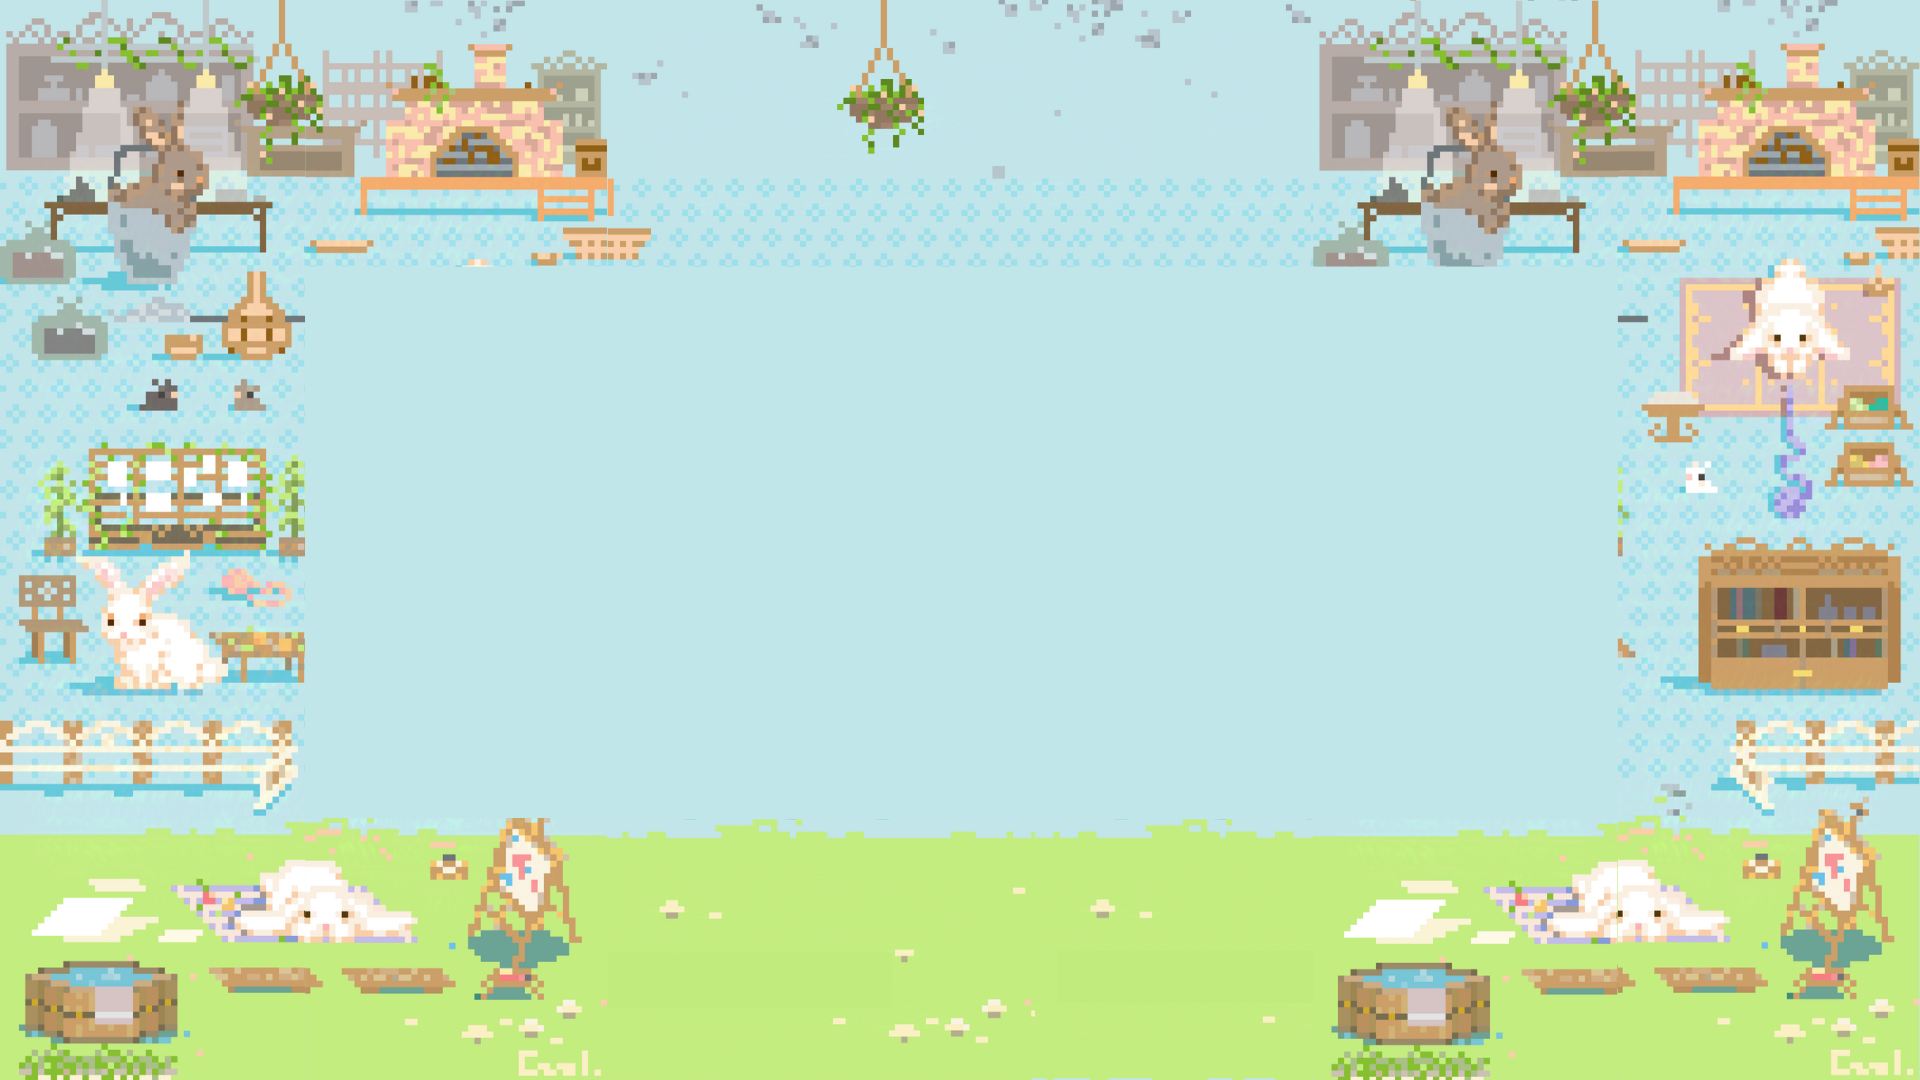
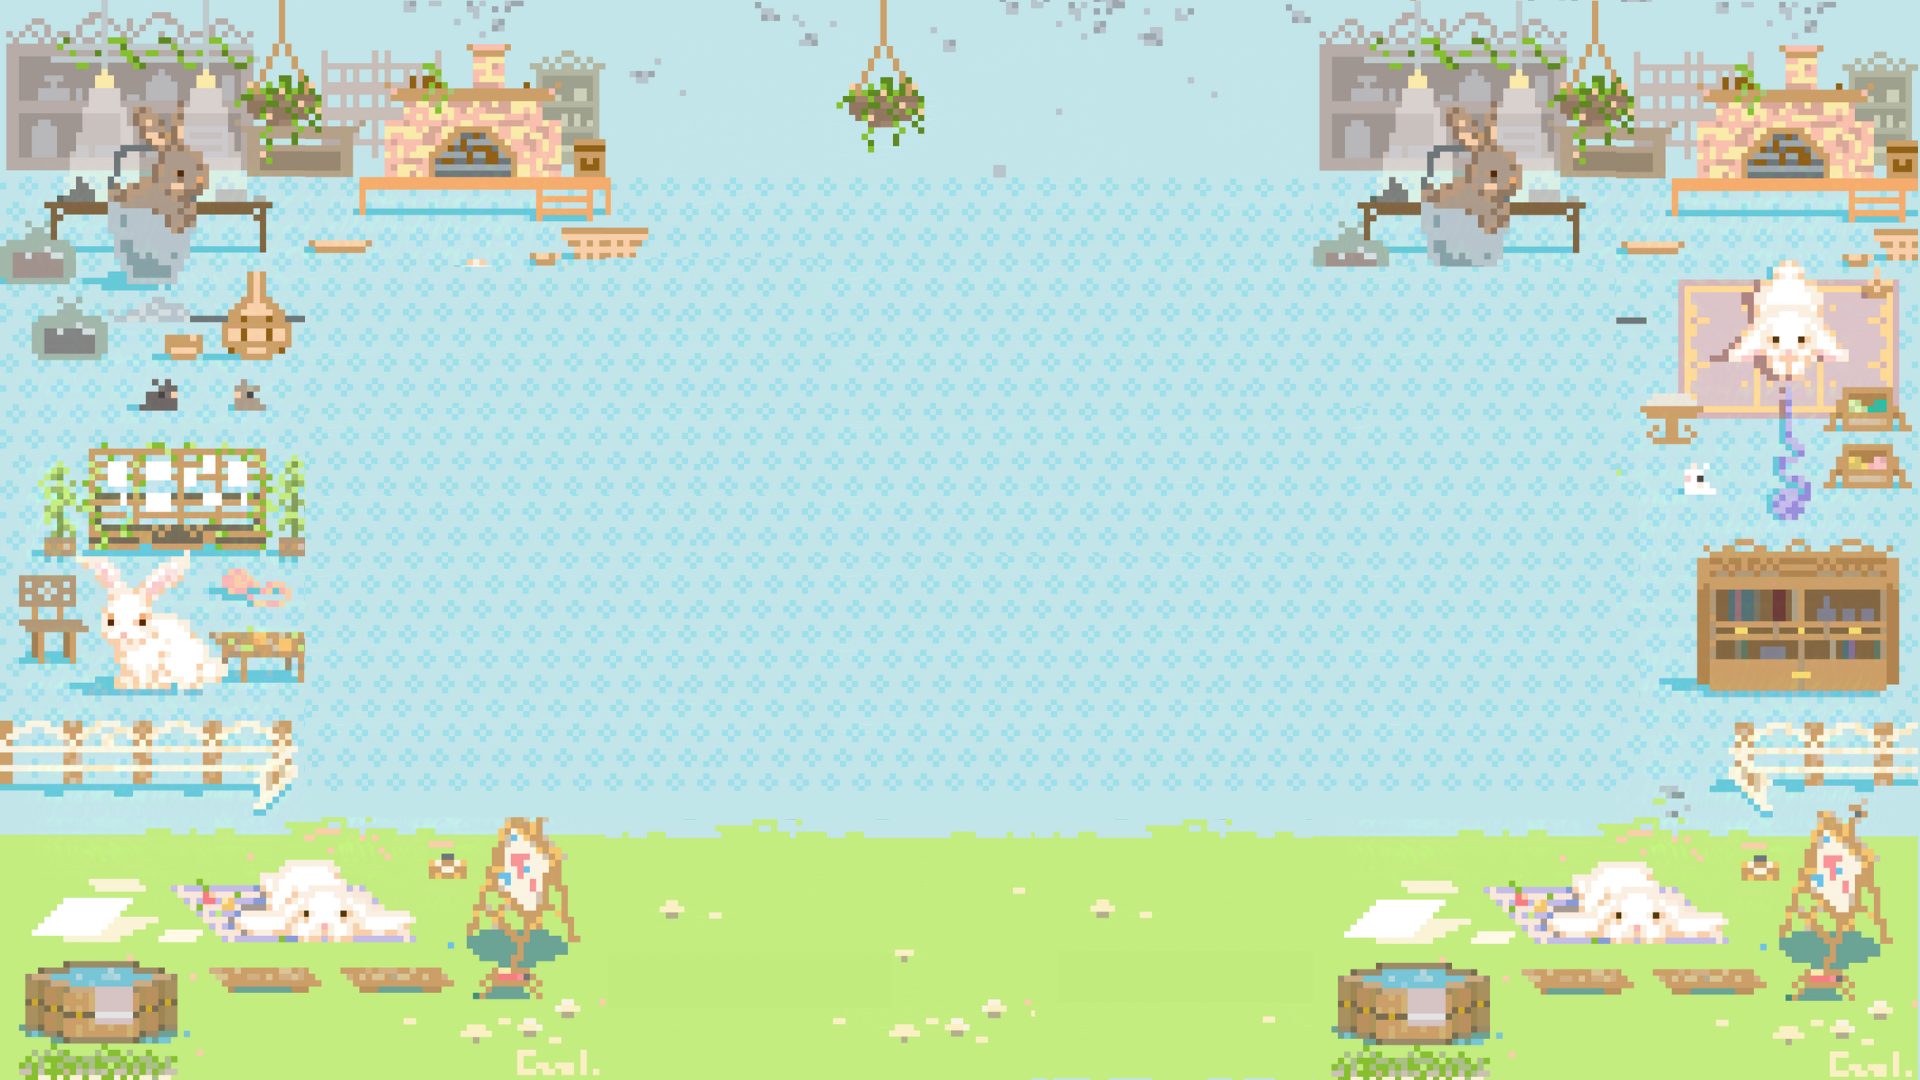
ajustes visuais

diff --git a/services/receitasData.js b/services/receitasData.js
@@ -1,0 +1,74 @@
+const mockDataReceitas = [
+  {
+    idReceita: 1,
+    nomeReceita: 'Produto 1',
+    descricaoReceita: 'Descrição do Produto 1',
+    precoReceita: '100,00',
+    arrayImagens: ['/icons/iconMirumuh_topRosa_marrom.png'],
+  },
+  {
+    idReceita: 2,
+    nomeReceita: 'Produto 2',
+    descricaoReceita: 'Descrição do Produto 2',
+    precoReceita: '150,00',
+    arrayImagens: ['/icons/iconMirumuh_topRosa_marrom.png'],
+  },
+  {
+    idReceita: 3,
+    nomeReceita: 'Produto 3',
+    descricaoReceita: 'Descrição do Produto 3',
+    precoReceita: '200,00',
+    arrayImagens: ['/icons/iconMirumuh_topRosa_marrom.png'],
+  },
+  {
+    idReceita: 4,
+    nomeReceita: 'Produto 4',
+    descricaoReceita: 'Descrição do Produto 4',
+    precoReceita: '250,00',
+    arrayImagens: ['/icons/iconMirumuh_topRosa_marrom.png'],
+  },
+  {
+    idReceita: 5,
+    nomeReceita: 'Produto 5',
+    descricaoReceita: 'Descrição do Produto 5',
+    precoReceita: '300,00',
+    arrayImagens: ['/icons/iconMirumuh_topRosa_marrom.png'],
+  },
+  {
+    idReceita: 6,
+    nomeReceita: 'Produto 6',
+    descricaoReceita: 'Descrição do Produto 6',
+    precoReceita: '350,00',
+    arrayImagens: ['/icons/iconMirumuh_topRosa_marrom.png'],
+  },
+  {
+    idReceita: 7,
+    nomeReceita: 'Produto 7',
+    descricaoReceita: 'Descrição do Produto 7',
+    precoReceita: '400,00',
+    arrayImagens: ['/icons/iconMirumuh_topRosa_marrom.png'],
+  },
+  {
+    idReceita: 8,
+    nomeReceita: 'Produto 8',
+    descricaoReceita: 'Descrição do Produto 8',
+    precoReceita: '450,00',
+    arrayImagens: ['/icons/iconMirumuh_topRosa_marrom.png'],
+  },
+  {
+    idReceita: 9,
+    nomeReceita: 'Produto 9',
+    descricaoReceita: 'Descrição do Produto 9',
+    precoReceita: '500,00',
+    arrayImagens: ['/icons/iconMirumuh_topRosa_marrom.png'],
+  },
+  {
+    idReceita: 10,
+    nomeReceita: 'Produto 10',
+    descricaoReceita: 'Descrição do Produto 10',
+    precoReceita: '550,00',
+    arrayImagens: ['/icons/iconMirumuh_topRosa_marrom.png'],
+  },
+]
+
+export { mockDataReceitas }

diff --git a/app/sobre/page.js b/app/sobre/page.js
@@ -1,8 +1,50 @@
 import React from 'react'
+import Link from 'next/link'
+import Image from 'next/image'
 
 const Sobre = () => {
+  const icons = [
+    { href: '', src: '/icons/telefone.svg', alt: 'ícone de telefone' },
+    {
+      href: 'https://www.instagram.com/mirumuh/',
+      src: '/icons/instagram.svg',
+      alt: 'ícone de instagram',
+    },
+    { href: '', src: '/icons/email.svg', alt: 'ícone de email' },
+    { href: '', src: '/icons/site.svg', alt: 'ícone de site' },
+    { href: '', src: '/icons/canva.svg', alt: 'ícone de canvas' },
+  ]
+
   return (
-    <div>Sobre</div>
+    <div className='h-screen justify-center'>
+      <div className='flex flex-row justify-center items-center pt-12 pb-8'>
+        <h2 className='text-[22px] font-semibold'>Sobre</h2>
+      </div>
+      <div className='flex flex-row justify-center items-center px-72'>
+        <a className='text-[16px] text-justify'>
+          A Mirumuh foi uma lojinha criada para vender amigurumis e crochês
+          que eu, Carolina Coimbra, faço. Seu nome foi pensado para
+          referenciar a palavra amigurumis, e hoje em dia, com o intuito de
+          abrangir as aquararelas, pinturas e outras artes, transformou-se
+          em Atelier da Mirumuh, com coelhinhos representando as várias
+          funções que desempenho como artista visual.
+        </a>
+      </div>
+      <div className='flex flex-row justify-center gap-3 items-center py-8'>
+        {icons.map((icon, index) => (
+          <Link href={icon.href} key={index} target='_blank'>
+            <div className='flex flex-row bg-white rounded-lg'>
+              <Image
+                src={icon.src}
+                alt={icon.alt}
+                width={50}
+                height={50}
+              ></Image>
+            </div>
+          </Link>
+        ))}
+      </div>
+    </div>
   )
 }
 

diff --git a/app/components/Receita.js b/app/components/Receita.js
@@ -2,14 +2,11 @@ import Image from 'next/image'
 import Link from 'next/link'
 
 const Receita = ({ image, idReceita, nomeReceita, descricaoReceita }) => {
-  console.log(idReceita)
-  console.log(nomeReceita)
-
   return (
-    <div className='flex py-5 items-center px-8 gap-5 bg-white w-full min-h-40 rounded-3xl'>
-      <div className='flex border border-blue rounded-2xl p-3 w-32 h-32'>
+    <div className='flex flex-col gap-3 bg-white rounded-3xl shadow-lg p-4 sm:flex-row sm:gap-5 sm:items-center sm:py-5'>
+      <div className='flex items-center justify-center border border-blue rounded-2xl w-full h-32 sm:w-32 sm:h-32'>
         <Image
-          src='/icons/iconMirumuh_topRosa_marrom.png'
+          src={image[0]}
           alt='Imagem da Receita'
           width={100}
           height={100}
@@ -17,13 +14,18 @@ const Receita = ({ image, idReceita, nomeReceita, descricaoReceita }) => {
         />
       </div>
 
-      <div className='flex flex-col gap-1 h-32 w-5/6 border border-blue p-3 rounded-2xl'>
-        <h2 className='font-semibold'>{nomeReceita}</h2>
-        <p>{descricaoReceita}</p>
+      <div className='flex flex-col gap-1 border border-blue rounded-2xl p-3 w-full  overflow-hidden sm:h-32'>
+        <h2 className='font-semibold text-sm sm:text-base'>
+          {nomeReceita}
+        </h2>
+        <p className='text-sm sm:text-base text-gray-700'>
+          {descricaoReceita}
+        </p>
       </div>
+
       <Link
         href={`/produtos/${idReceita}`}
-        className='bg-blue hover:bg-light-darker-blue text-white px-5 py-2 rounded-xl w-min shadow whitespace-nowrap h-min '
+        className='bg-blue hover:bg-light-darker-blue text-white px-5 py-2 rounded-xl shadow w-min whitespace-nowrap'
       >
         Ver Receita
       </Link>

diff --git a/app/receitas/page.js b/app/receitas/page.js
@@ -1,11 +1,11 @@
 'use client'
 import Receita from '../components/Receita'
-import { mockDataReceitas } from '../services/receitasData'
+import { mockDataReceitas } from '../../services/receitasData'
 
 const Receitas = () => {
   return (
-    <div className='w-full'>
-      <div className='flex flex-col gap-10 w-fuFll px-40 py-20 overflow-y-auto max-h-screenHeader'>
+    <div className='w-full h-screen overflow-y-auto'>
+      <div className='flex flex-col gap-5 px-5 py-5 sm:py-10 md:px-20 lg:px-40 lg:py-14'>
         {mockDataReceitas.map(receita => (
           <Receita
             key={receita.idReceita}

diff --git a/app/components/Header.js b/app/components/Header.js
@@ -6,7 +6,7 @@ import Link from 'next/link'
 const Header = () => {
   return (
     <header className='bg-light-pink flex flex-col justify-center w-full py-7 px-4 gap-8 shadow-md'>
-      <Link href={'/'} className='flex justify-center items-center'>
+      <Link href={'/sobre'} className='flex justify-center items-center'>
         <Image
           src='/icons/logoFullMarcado.png'
           alt='Ateliê da Mirumuh'

diff --git a/app/components/Navbar.js b/app/components/Navbar.js
@@ -6,7 +6,7 @@ const Navbar = ({ variant }) => {
     { label: 'Receitas', path: '/receitas', disabled: false },
     { label: 'Amigurumis', path: '/', disabled: true },
     { label: 'Artes', path: '/', disabled: true },
-    { label: 'Sobre', path: '/', disabled: false },
+    { label: 'Sobre', path: '/sobre', disabled: false },
     { label: 'Login', path: '/', disabled: true },
   ]
   return (

diff --git a/app/produtos/[id]/page.js b/app/produtos/[id]/page.js
@@ -1,7 +1,7 @@
 'use client'
 
 import Produtos from '@/app/components/Produtos'
-import { mockDataReceitas } from '@/app/services/receitasData'
+import { mockDataReceitas } from '@/services/receitasData'
 import { useParams } from 'next/navigation'
 
 const ProdutoPage = () => {

diff --git a/app/globals.css b/app/globals.css
@@ -44,3 +44,9 @@
 body {
   color: var(--foreground);
 }
+
+@media screen and (max-width: 768px) {
+  .background::before {
+    background-image: url('/images/fundoCelular.png');
+  }
+}
